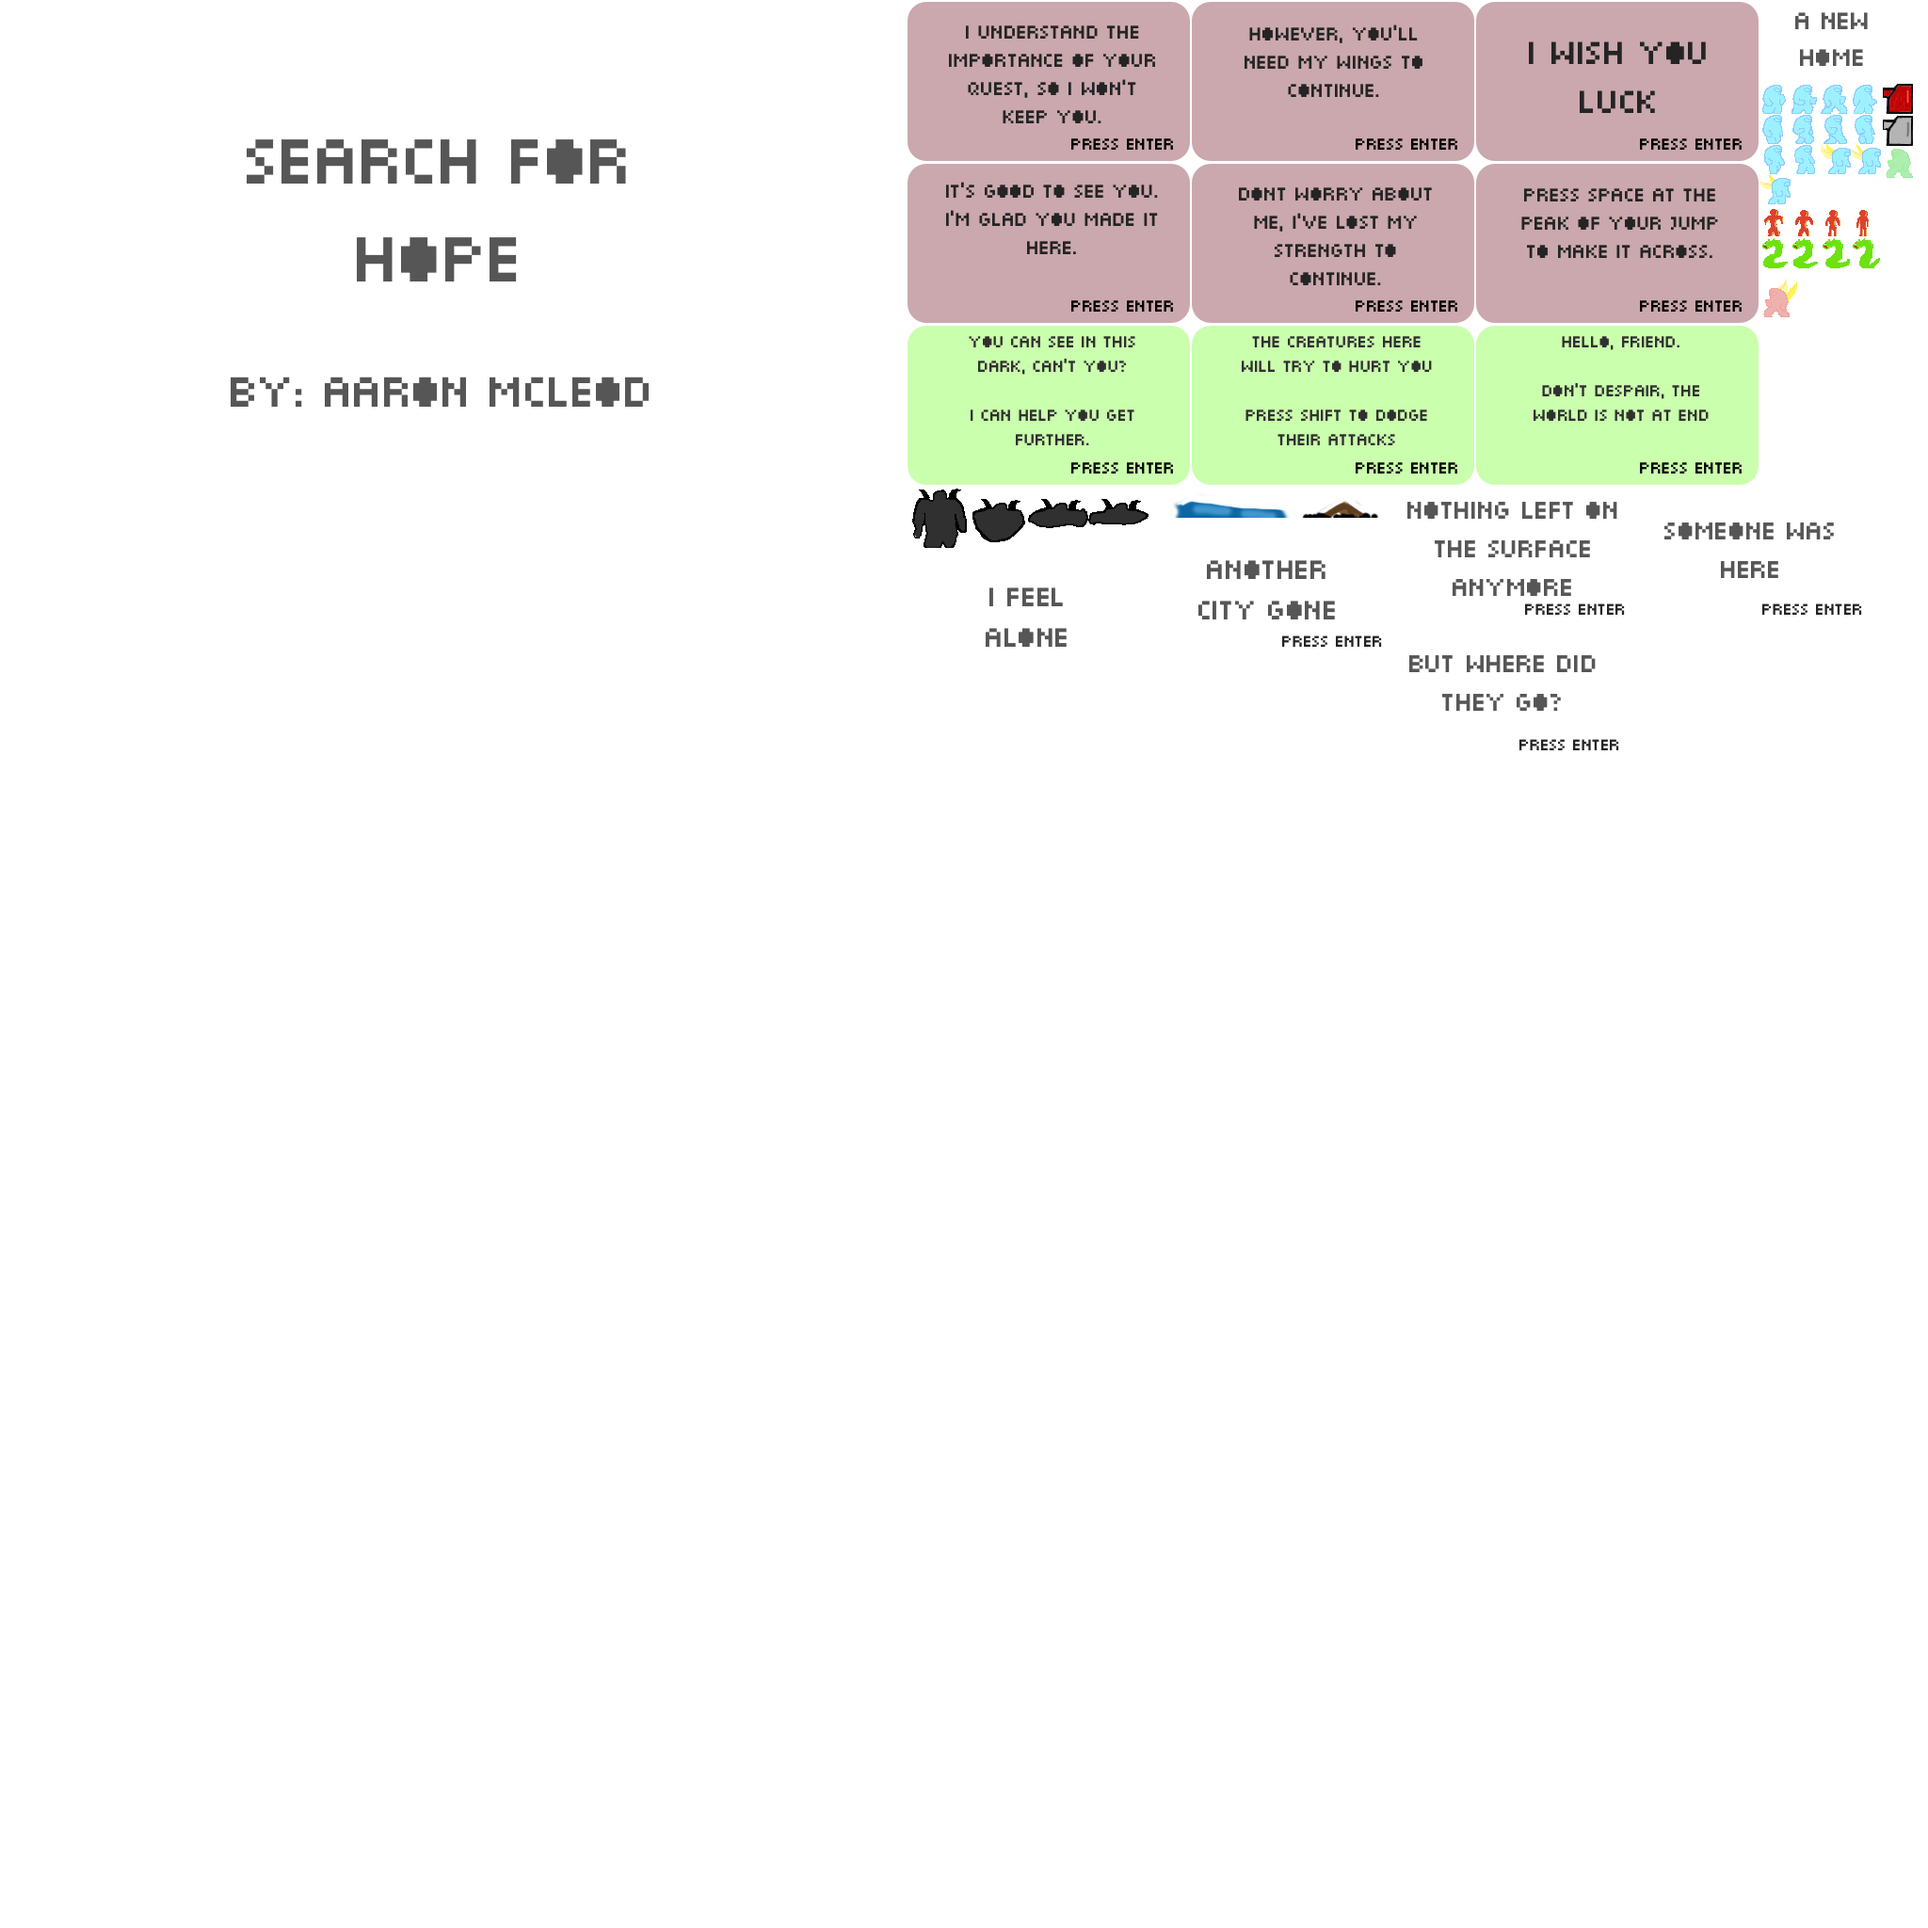
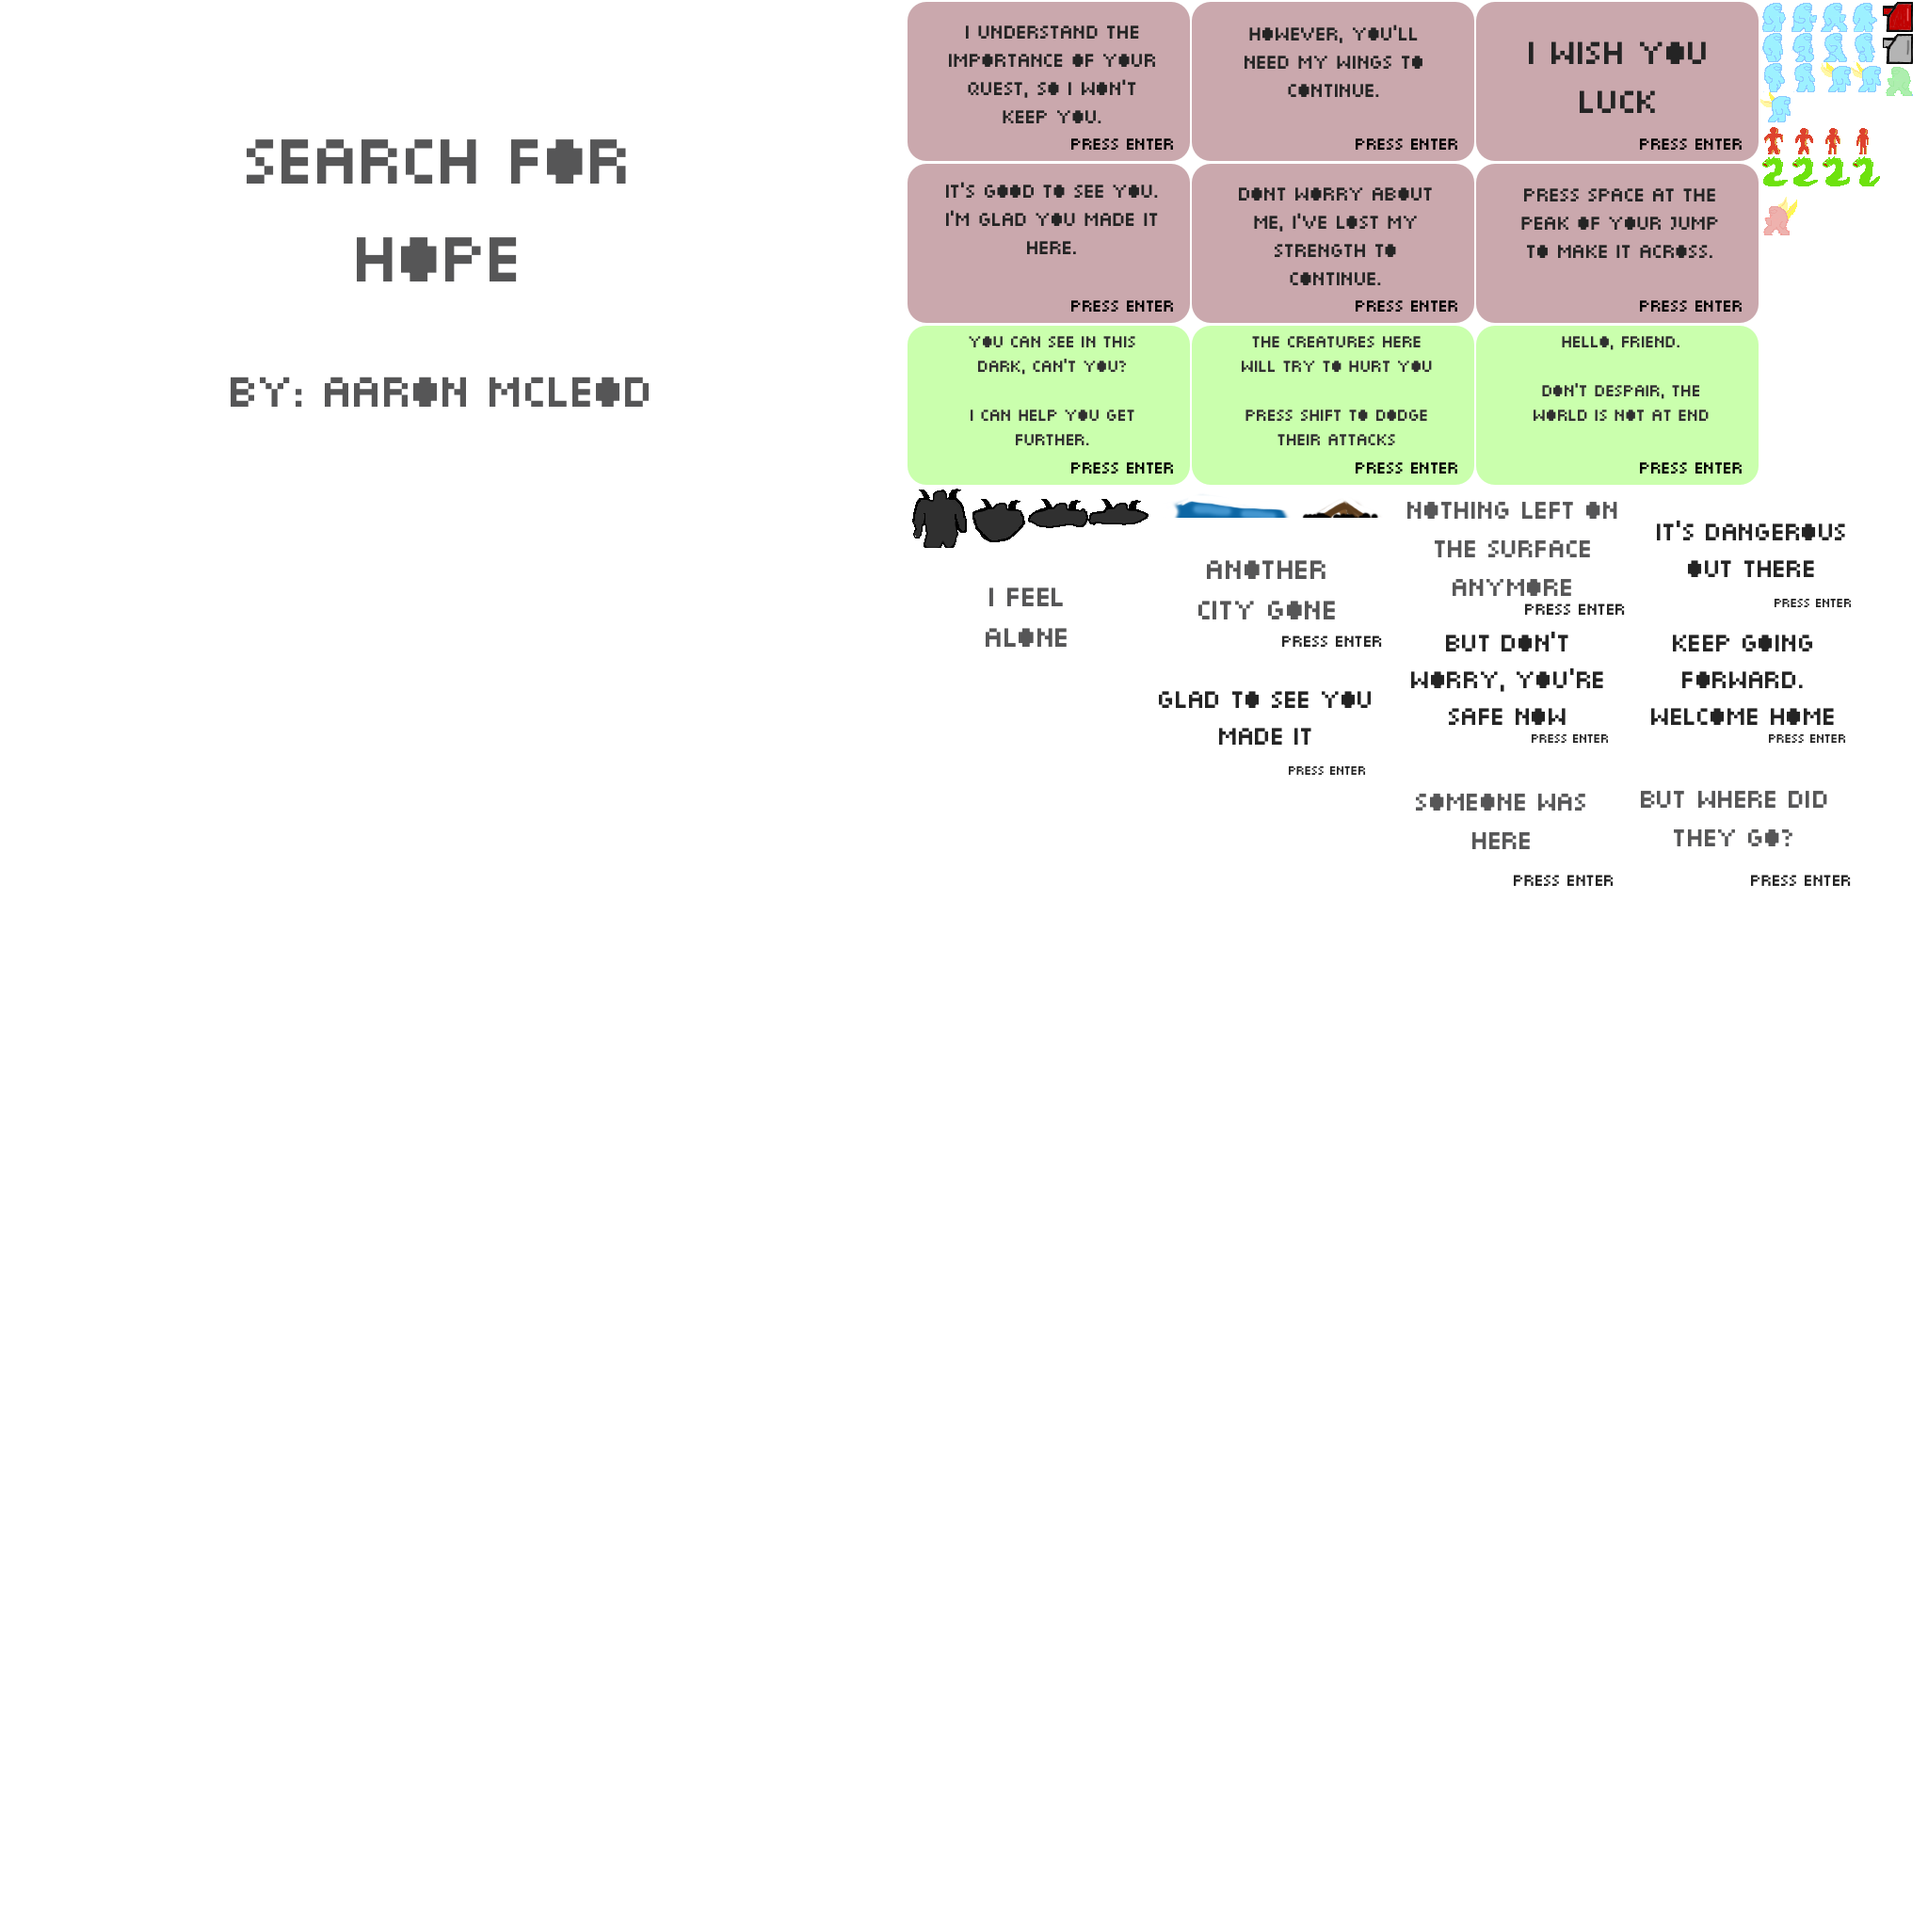
level content done.

Changed region(s): [[0.5938, 0.25, 0.9688, 0.4688], [0.9062, 0.0, 1.0, 0.1562], [0.8438, 0.4062, 0.9375, 0.4688]]

diff --git a/js/screens/play_screen.js b/js/screens/play_screen.js
@@ -108,18 +108,19 @@ game.PlayScreen = me.ScreenObject.extend({
   },
 
   registerEntities: function () {
-    me.pool.register('endgame', game.EndGame);
-    me.pool.register('player', game.Player);
-    me.pool.register('greenthing', game.GreenThing, true);
-    me.pool.register('redthing', game.RedThing, true);
     me.pool.register('blackthing', game.BlackThing, true);
-    me.pool.register('dodgeitem', game.DodgeItem);
-    me.pool.register('glide', game.GlideItem);
-    me.pool.register('shooter', game.Shooter);
-    me.pool.register('projectile', game.Projectile);
-    me.pool.register('dialogue', game.Dialogue);
-    me.pool.register('game.PositionLevelEntity', game.PositionLevelEntity, false);
     me.pool.register('campsite', game.Campsite, false);
+    me.pool.register('dialogue', game.Dialogue);
+    me.pool.register('dodgeitem', game.DodgeItem);
+    me.pool.register('endgame', game.EndGame);
+    me.pool.register('game.PositionLevelEntity', game.PositionLevelEntity, false);
+    me.pool.register('glide', game.GlideItem);
+    me.pool.register('greenthing', game.GreenThing, true);
+    me.pool.register('greet', game.GreetNPC, false);
+    me.pool.register('player', game.Player);
+    me.pool.register('projectile', game.Projectile);
+    me.pool.register('redthing', game.RedThing, true);
+    me.pool.register('shooter', game.Shooter);
   },
 
   resetHealth: function() {

diff --git a/js/entities/greet_npc.js b/js/entities/greet_npc.js
@@ -1,0 +1,30 @@
+game.GreetNPC = me.Entity.extend({
+  init: function (x, y, settings) {
+    this._super(me.Entity, "init", [x, y, settings]);
+    var region = game.atlas.getRegion("dodge.png");
+    this.renderable = new me.Sprite(0, 0, game.atlas.getTexture(), region.width, region.height);
+    this.renderable.offset.setV(region.offset);
+    this.body.setVelocity(0, 0);
+    this.body.collisionType = me.collision.types.COLLECTABLE_OBJECT;
+    this.type = 'dodge';
+    this.triggered = false;
+    this.z = 3;
+  },
+
+  onCollision: function (res, obj) {
+    if (obj.name === "player") {
+      if (!this.triggered) {
+        this.triggered = true;
+        game.playScreen.startDialogue(this.pos.x + 150, this.pos.y, ['finalmessageone.png', 'finalmessagetwo.png', 'finalmessagethree.png', 'finalmessagefour.png']);
+      }
+      return false;
+    }
+  },
+
+  update: function (dt) {
+    this._super(me.Entity, "update", [dt]);
+    this.body.update();
+    me.collision.check(this);
+    return false;
+  }
+});

diff --git a/js/entities/endgame.js b/js/entities/endgame.js
@@ -1,11 +1,18 @@
 game.EndGame = me.Entity.extend({
   init: function (x, y, settings) {
     this._super(me.Entity, "init", [x, y, settings]);
+    this.body.collisionType = me.collision.types.ACTION_OBJECT;
   },
 
   onCollision: function (res, obj) {
     if (obj.name === 'player') {
-
+      me.game.viewport.fadeIn('#ffffff', 1000, function () {
+        var region = game.atlas.getRegion("end.png");
+        var sprite = new me.Sprite(0, 0, game.atlas.getTexture(), region.width, region.height);
+        sprite.floating = true;
+        sprite.offset.setV(region.offset);
+        me.game.world.addChild(sprite, 10);
+      });
     }
   },
 

diff --git a/index.html b/index.html
@@ -45,6 +45,7 @@
     <script type="text/javascript" src="js/entities/endgame.js"></script>
     <script type="text/javascript" src="js/entities/glide_item.js"></script>
     <script type="text/javascript" src="js/entities/green_thing.js"></script>
+    <script type="text/javascript" src="js/entities/greet_npc.js"></script>
     <script type="text/javascript" src="js/entities/player.js"></script>
     <script type="text/javascript" src="js/entities/position_level_entity.js"></script>
     <script type="text/javascript" src="js/entities/projectile.js"></script>
